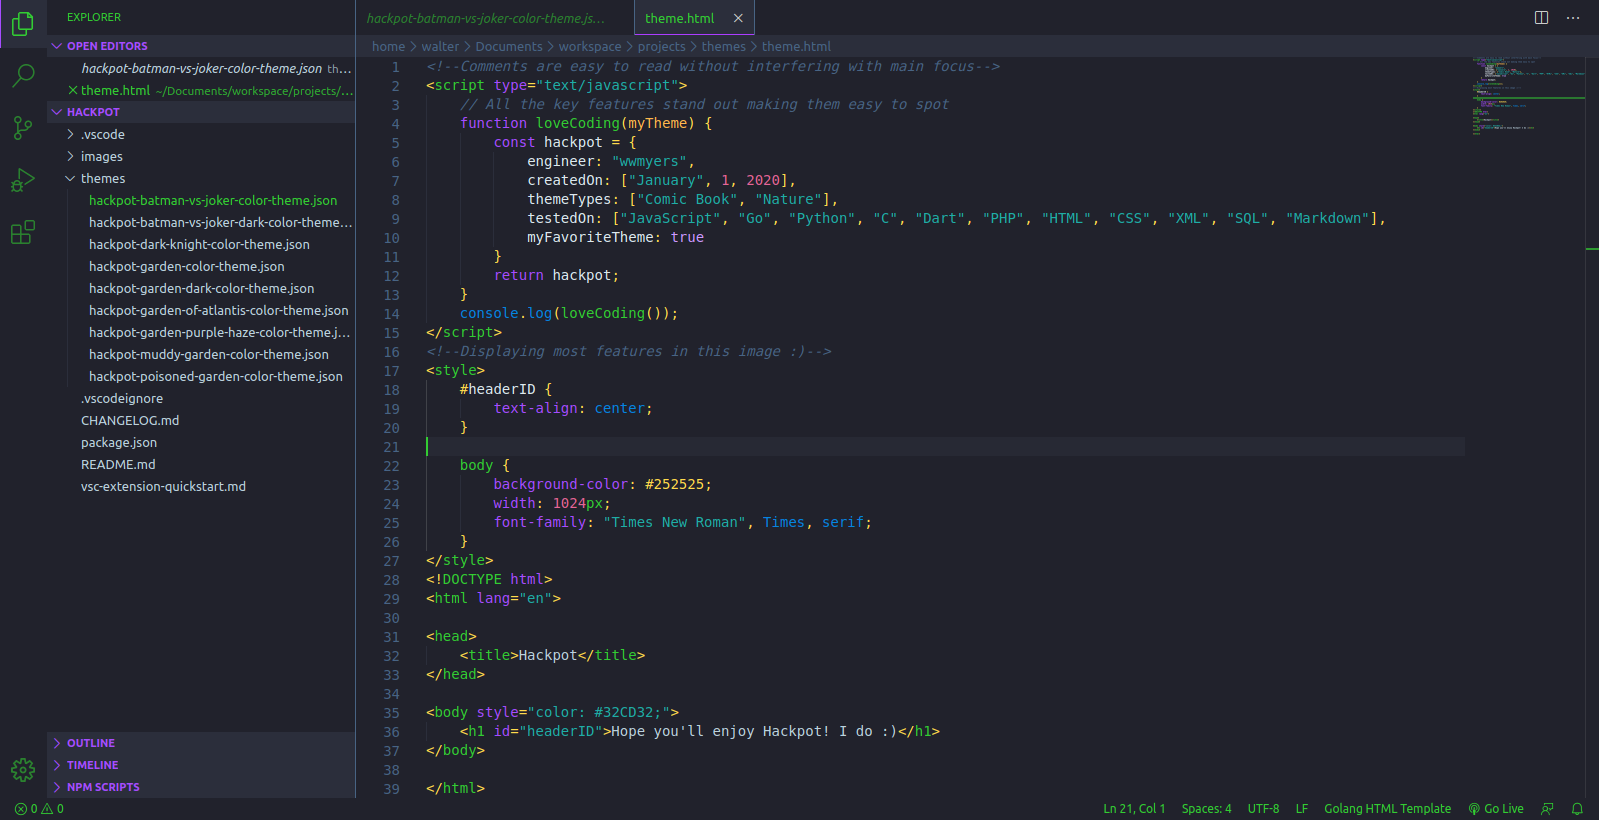
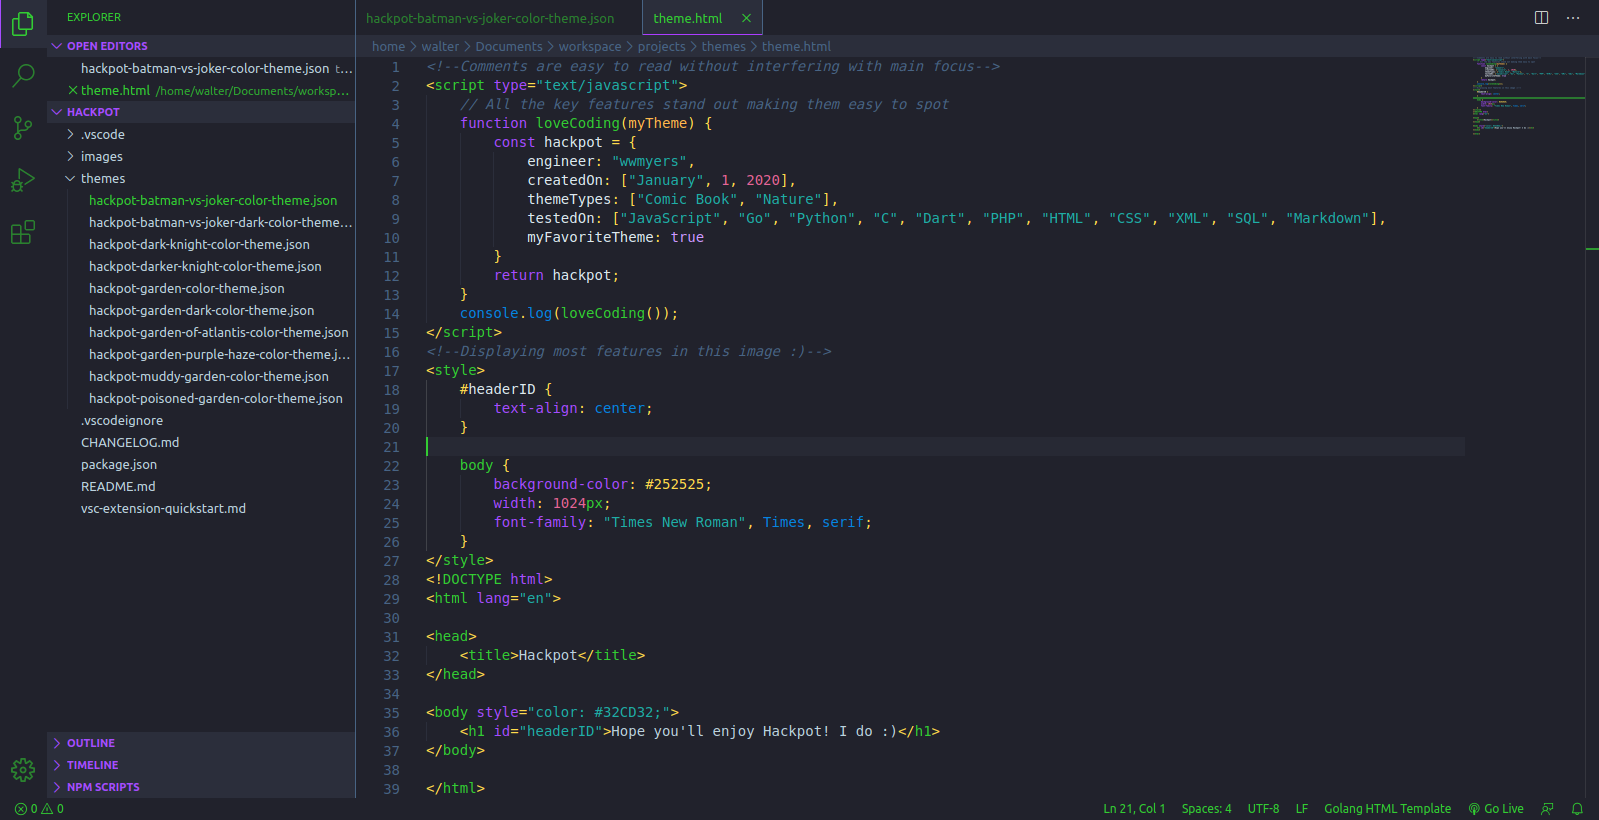
Add files via upload

Changed region(s): [[0.0306, 0.3049, 0.2145, 0.6402], [0.0613, 0.061, 0.2145, 0.122], [0.2452, 0.0, 0.4597, 0.0305]]

diff --git a/README.md b/README.md
@@ -1,12 +1,13 @@
 # Hackpot
 
-#### Comic Book Themes
-* Hackpot Batman vs Joker (classic meets modern)
+#### Batman vs Joker Theme With 4 Background Color Options
+* Hackpot Batman vs Joker
 * Hackpot Batman vs Joker Dark
 * Hackpot Dark Knight
+* Hackpot Darker Knight
 
 #### Garden Theme With 6 Background Color Options
-* Hackpot Garden (original)
+* Hackpot Garden
 * Hackpot Garden Dark
 * Hackpot Garden Of Atlantis
 * Hackpot Muddy Garden
@@ -21,6 +22,9 @@ Hackpot Batman vs Joker Dark
 
 Hackpot Dark Knight
 ![hackpot](https://github.com/wwmyers/hackpot/raw/master/images/hackpotdarkknight.png)
+
+Hackpot Darker Knight
+![hackpot](https://github.com/wwmyers/hackpot/raw/master/images/hackpotdarkerknight.png)
 
 Hackpot Garden
 ![hackpot](https://github.com/wwmyers/hackpot/raw/master/images/hackpotgarden.png)
@@ -41,9 +45,9 @@ Hackpot Poisoned Garden
 ![hackpot](https://github.com/wwmyers/hackpot/raw/master/images/hackpotpoisonedgarden.png)
 
 #### My personal favorites are :)
-1. Dark Knight
-2. Batman vs Joker Dark
-3. Garden (original)
+1. Batman vs Joker
+2. Dark Knight
+3. Garden
 4. Garden Of Atlantis
 
 # Enjoy :)

diff --git a/CHANGELOG.md b/CHANGELOG.md
@@ -2,6 +2,12 @@
 
 #### All notable changes to the "Hackpot" extension will be documented in this file
 
+### May 9 2020
+* Added new background option for Batman vs Joker called Dark Knight
+  * Same as Dark Knight was but with a lighter background
+  * Softer on the eyes
+* Renamed Dark Knight to Darker Knight
+
 ### Apr 30 2020
 * Fixed the tab colors for better readability
   * The default settings for unfocused inactive tabs made it hard to read the tabs
